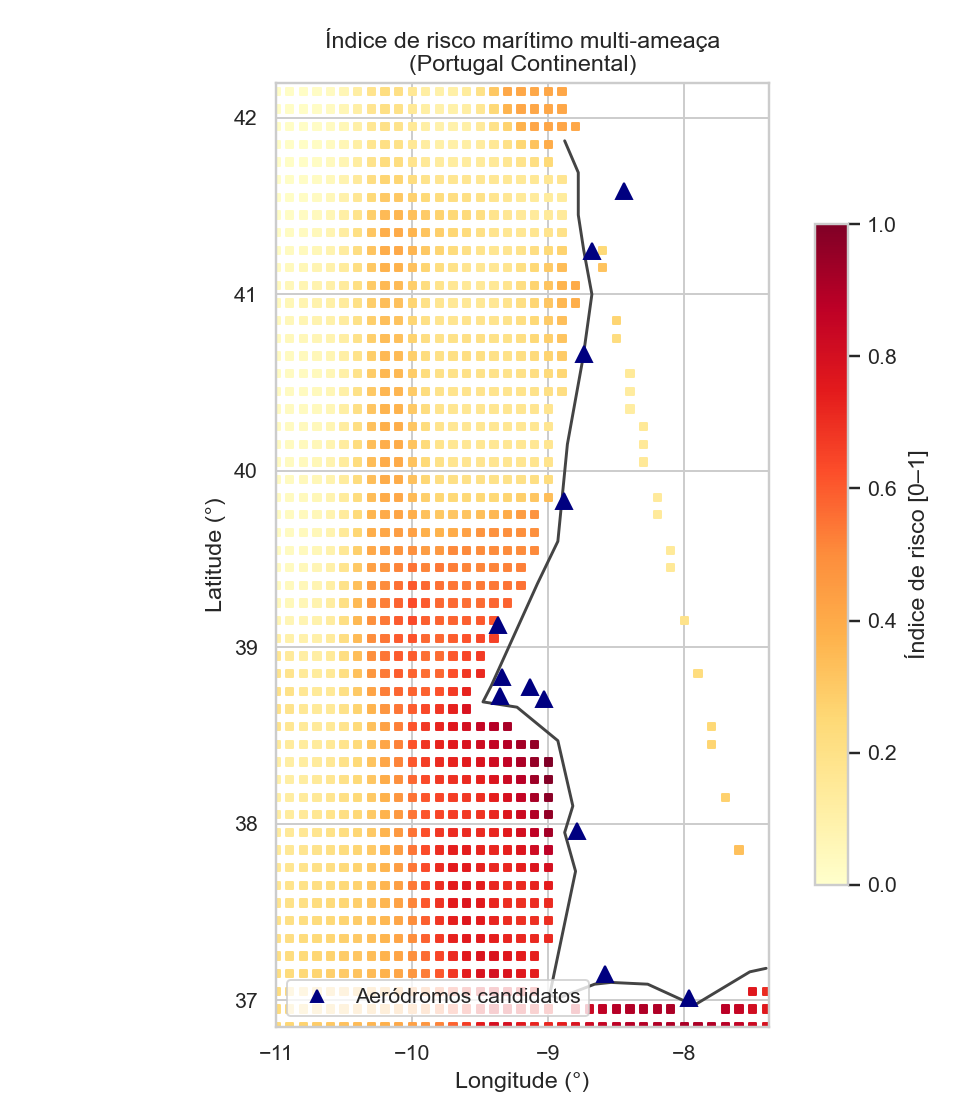
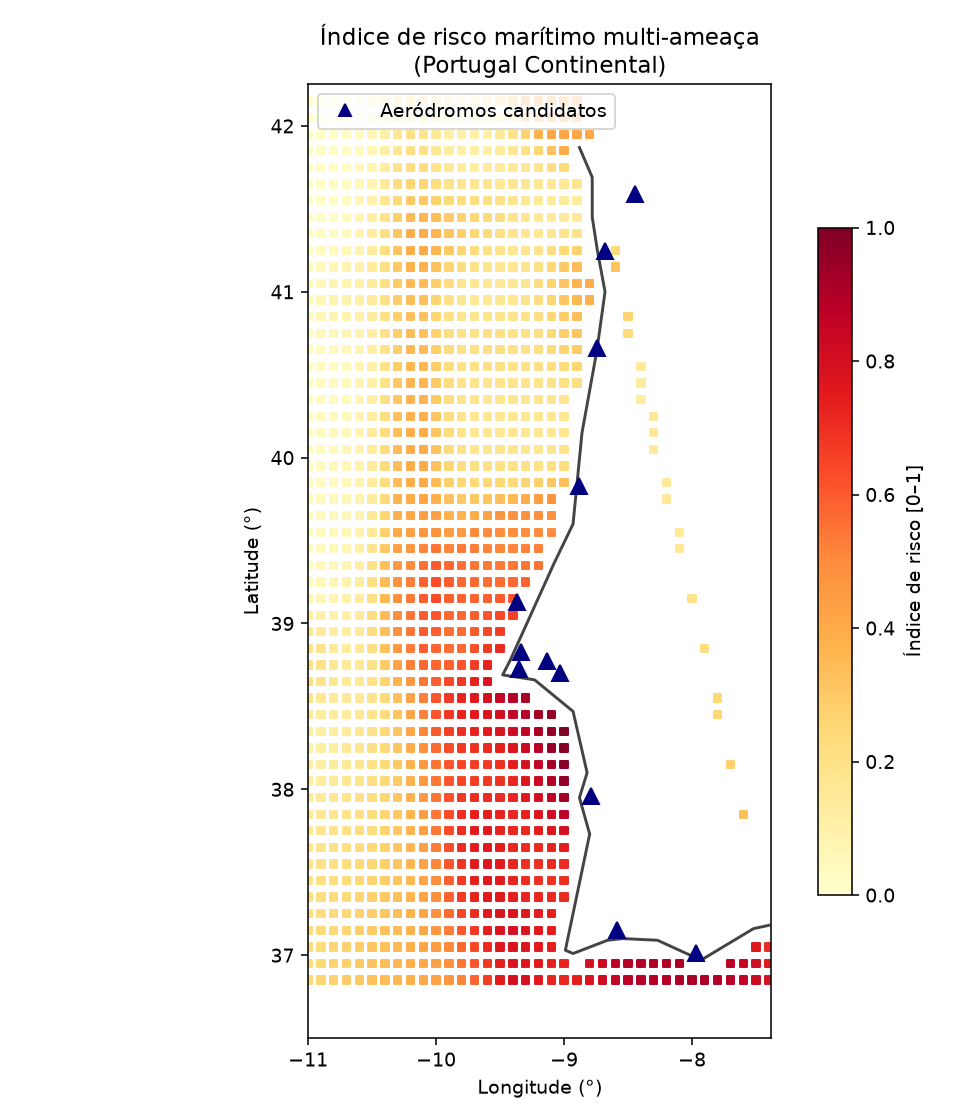
Ajustar enquadramento da Fig. 01 para destacar o Algarve.
Margem sul alargada (36,5 N), legenda no canto superior esquerdo.

diff --git a/src/main.py b/src/main.py
@@ -37,6 +37,10 @@ LIMIAR = 0.5  # limiar de "alto risco"
 COSTA_LON = [c[0] for c in COSTA_LONLAT]
 COSTA_LAT = [c[1] for c in COSTA_LONLAT]
 
+# Fig. 01 — margem extra a sul para o Algarve (sem alterar a grelha de dados)
+FIG01_LAT_MIN = 36.50
+FIG01_LAT_MAX = 42.25
+
 
 def circulo_lonlat(base, raio_km, n=120):
     ang = np.linspace(0, 2 * np.pi, n)
@@ -64,10 +68,12 @@ def fig_risco(pts):
     for nome, blon, blat, reg in AERODROMOS:
         ax.plot(blon, blat, "^", color="navy", ms=8, zorder=4)
     _base_map(ax)
+    ax.set_ylim(FIG01_LAT_MIN, FIG01_LAT_MAX)
     plt.colorbar(sc, ax=ax, label="Índice de risco [0–1]", shrink=0.7)
     ax.set_title("Índice de risco marítimo multi-ameaça\n(Portugal Continental)")
     ax.legend([plt.Line2D([], [], marker="^", color="navy", ls="")],
-              ["Aeródromos candidatos"], loc="lower left")
+              ["Aeródromos candidatos"], loc="upper left")
+    fig.subplots_adjust(bottom=0.10)
     fig.tight_layout(); fig.savefig(f"{FIGDIR}/01_risco.png", dpi=140)
     plt.close(fig)
 

diff --git a/notebooks/_build_nb.py b/notebooks/_build_nb.py
@@ -379,16 +379,20 @@ display(pd.DataFrame(rows))
 cells.append(md("### 3.5 Mapa de risco agregado (Fig. 01)"))
 cells.append(code("""COSTA_LON = [c[0] for c in COSTA_LONLAT]; COSTA_LAT = [c[1] for c in COSTA_LONLAT]
 lon = [p["lon"] for p in pts]; lat = [p["lat"] for p in pts]; rv = [p["risco"] for p in pts]
+FIG01_LAT_MIN, FIG01_LAT_MAX = 36.50, 42.25
 
 fig, ax = plt.subplots(figsize=(7, 8))
 sc = ax.scatter(lon, lat, c=rv, cmap="YlOrRd", s=14, marker="s", vmin=0, vmax=1)
 for nome, blon, blat, reg in AERODROMOS:
     ax.plot(blon, blat, "^", color="navy", ms=8)
 ax.plot(COSTA_LON, COSTA_LAT, color="#444", lw=1.5)
-ax.set_xlim(LON_MIN, LON_MAX); ax.set_ylim(LAT_MIN, LAT_MAX)
+ax.set_xlim(LON_MIN, LON_MAX); ax.set_ylim(FIG01_LAT_MIN, FIG01_LAT_MAX)
 ax.set_aspect(1.0/np.cos(np.radians(39.5)))
 plt.colorbar(sc, ax=ax, label="Risco [0–1]", shrink=0.7)
 ax.set_title("Fig. 01 — Índice de risco marítimo multi-ameaça")
+ax.legend([plt.Line2D([], [], marker="^", color="navy", ls="")],
+          ["Aeródromos candidatos"], loc="upper left")
+fig.subplots_adjust(bottom=0.10)
 fig.tight_layout(); plt.show()
 fig.savefig(FIGDIR/"01_risco.png", dpi=140)
 """))